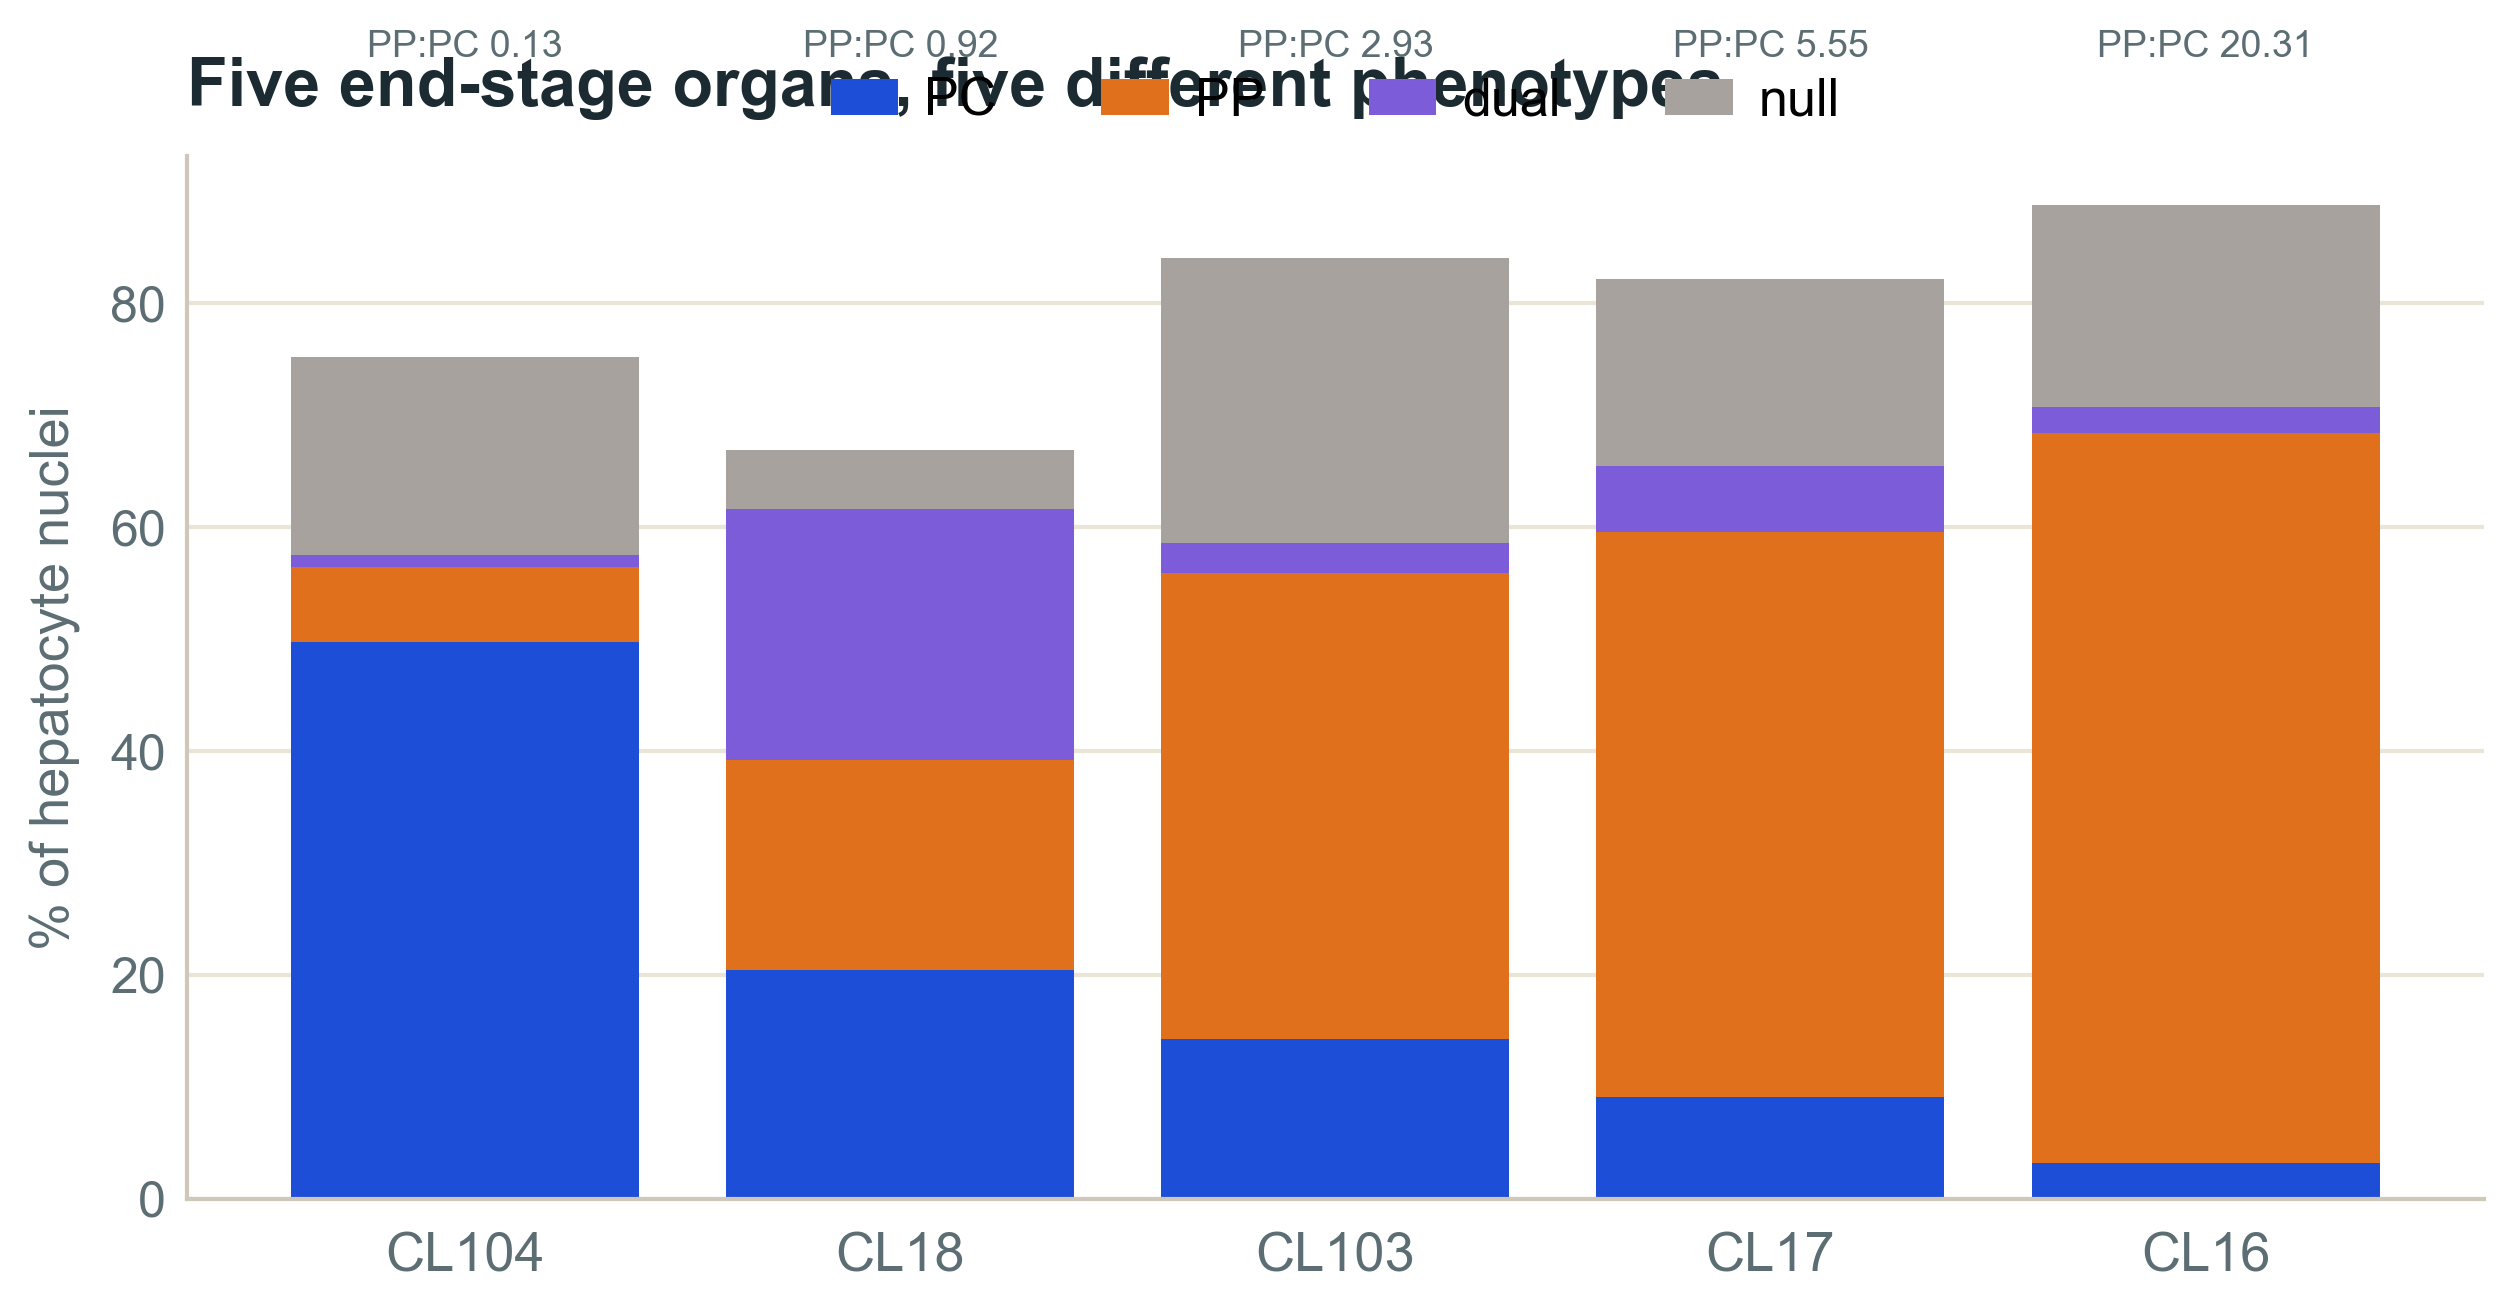
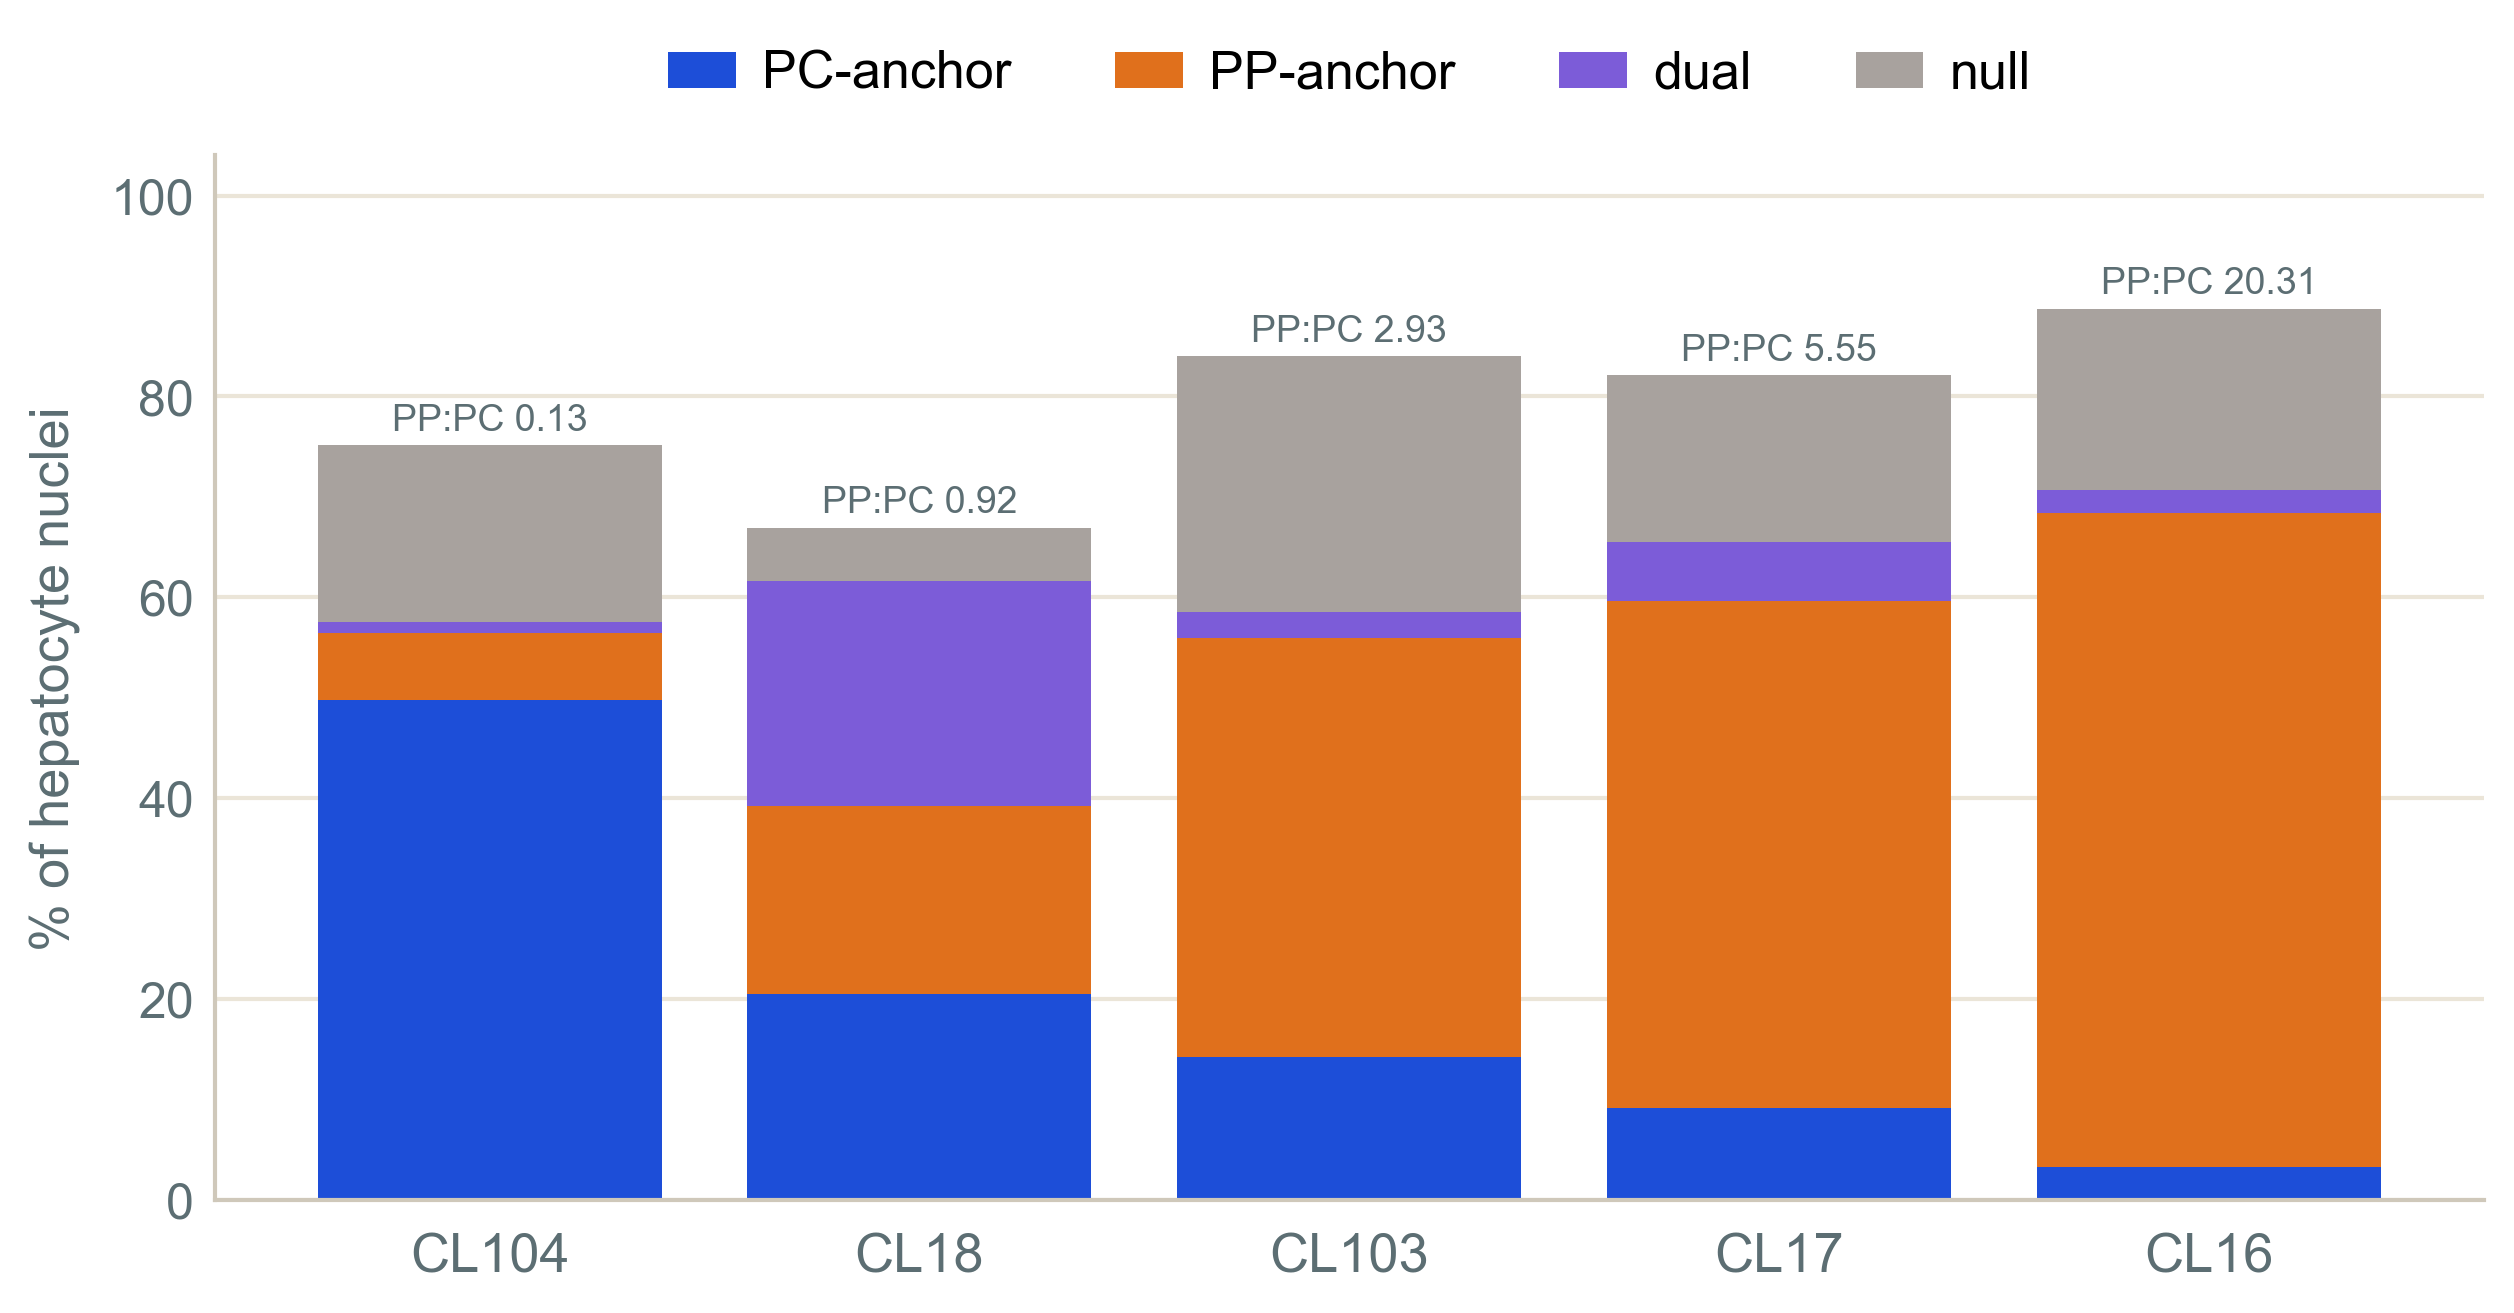
Deck: add vocabulary + gradient-axis slides, redesign conclusion, fix Fig 7
- New "THE VOCABULARY" slide (2x2 PC/PP/dual/null classes), colour-matched
  to the mechanism chips that follow
- Relabel WHAT WE TEST chips by box+direction (anchor box down vs null box up)
  so depletion vs turn-off can't be conflated; generalize the z-score caveat
- New "THE GRADIENT AXIS" slide grouping compression (shape) + dimming
  (amplitude) with vector schematics; pull dimming off the WHAT WE TEST slide
- Dimming verdict softened to the defensible "borderline; not corroborated
  genome-wide -> dropped" (chip, backup taxonomy, notes)
- Restore the missing Dimming row to the backup scenario-coverage table
- Redesign in-place conclusion to 3 scannable takeaways; move the dense
  three-column version to a backup slide
- Fix Fig 7 (fig_explant): drop redundant in-figure title, anchor PP:PC labels
  above each bar, clear the legend band (was overlapping title + annotations)
- Fix negative line-extent bug in gradient schematic that made PowerPoint
  refuse to open the file

diff --git a/presentation/build_deck.js b/presentation/build_deck.js
@@ -42,6 +42,11 @@ function chip(s,x,y,w,h,txt,fill,tcol){
   s.addShape(p.shapes.ROUNDED_RECTANGLE,{x,y,w,h,fill:{color:fill},rectRadius:0.08,shadow:sh()});
   s.addText(txt,{x,y,w,h,fontSize:14.5,bold:true,color:tcol||WHITE,align:"center",valign:"middle",margin:2});
 }
+function classbox(s,x,y,w,h,title,sub,fill,tcol){ // labelled definition card (title + plain-language line)
+  s.addShape(p.shapes.ROUNDED_RECTANGLE,{x,y,w,h,fill:{color:fill},rectRadius:0.07,shadow:sh()});
+  s.addText(title,{x:x+0.18,y:y+0.13,w:w-0.36,h:0.5,fontSize:20,bold:true,color:tcol||WHITE,fontFace:SERIF,align:"left",valign:"top",margin:0});
+  s.addText(sub,{x:x+0.18,y:y+0.68,w:w-0.36,h:h-0.8,fontSize:13.5,color:tcol||WHITE,align:"left",valign:"top",margin:0});
+}
 
 // ============================================================ SLIDE 1 — TITLE
 let s=p.addSlide(); s.background={color:DARK};
@@ -121,23 +126,97 @@ s.addText([
 foot(s);
 s.addNotes("Show the legacy approach and the claim it produced, then dismantle it. We first read the data with a z-scored relative ruler and marker correlations — which produced the headline 'hepatocytes lose zonation, pericentral turns off.' But every such metric is a relative summary pooled across all samples; it hides who moved and is bent by depth, cell number and tissue source. That motivated the pivot to raw molecule counts on the matched axis.");
 
+// ============================================================ SLIDE 3c — THE FOUR CLASSES (vocabulary)
+s=p.addSlide(); s.background={color:BG};
+head(s,"THE VOCABULARY","Every hepatocyte falls in one of four classes");
+s.addText("Before asking how zonation could break down, we fix the words. Each hepatocyte either runs the pericentral program, the periportal program, both at once, or neither — four mutually exclusive classes:",
+  {x:0.7,y:1.5,w:12.3,h:0.6,fontSize:16,color:INK,align:"left"});
+// axis headers — periportal across the top, pericentral down the left
+s.addText("PERIPORTAL  PROGRAM   (ASS1, CPS1, PCK1 …)",{x:2.95,y:2.18,w:9.15,h:0.3,fontSize:12.5,bold:true,color:PP,charSpacing:1,align:"center",margin:0});
+s.addText("not detected",{x:2.95,y:2.5,w:4.45,h:0.3,fontSize:12.5,bold:true,color:MUTE,align:"center",margin:0});
+s.addText("detected",{x:7.65,y:2.5,w:4.45,h:0.3,fontSize:12.5,bold:true,color:MUTE,align:"center",margin:0});
+s.addText("PERICENTRAL\nPROGRAM\n(GLUL, CYP …)",{x:0.4,y:2.45,w:2.4,h:0.85,fontSize:12.5,bold:true,color:PC,align:"center",margin:0});
+s.addText("detected",{x:0.4,y:3.5,w:2.4,h:0.3,fontSize:12.5,bold:true,color:MUTE,align:"center",margin:0});
+s.addText("not detected",{x:0.4,y:5.2,w:2.4,h:0.3,fontSize:12.5,bold:true,color:MUTE,align:"center",margin:0});
+// 2x2 grid of definition cards — colours match the mechanism chips on the next slide
+classbox(s,2.95,2.9,4.45,1.55,"PC-anchor","Pericentral identity — pericentral genes detected, periportal genes silent.",PC);
+classbox(s,7.65,2.9,4.45,1.55,"Dual","Co-expression — both programs detectable in the same nucleus.",DUAL);
+classbox(s,2.95,4.6,4.45,1.55,"Null","Double-negative — neither program detectable.",NULL,INK);
+classbox(s,7.65,4.6,4.45,1.55,"PP-anchor","Periportal identity — periportal genes detected, pericentral genes silent.",PP);
+s.addText([{text:"These four classes are the vocabulary. ",options:{bold:true}},
+  {text:"“Losing zonation” means cells ",options:{}},{text:"redistribute",options:{italic:true}},
+  {text:" across them — the next slide is the four ways that can happen, in these same colours.",options:{}}],
+  {x:0.7,y:6.35,w:12.3,h:0.5,fontSize:13.5,italic:true,color:MUTE,align:"left"});
+foot(s);
+s.addNotes("Definitions before mechanisms. Every hepatocyte is sorted into exactly one of four classes by which zonation program it runs: PC-anchor (pericentral only), PP-anchor (periportal only), Dual (both — the co-expression state), or Null (neither — double-negative). The 2x2 is pericentral detected/not against periportal detected/not. The card colours are carried onto the next slide, where each failure mode is a change in how cells distribute across these four boxes. 'Detected' here is operationalised on the later method slide as the >=2-UMI, depth-normalized rule.");
+
 // ============================================================ SLIDE 4 — FAILURE MODES
 s=p.addSlide(); s.background={color:BG};
 head(s,"WHAT WE TEST","Zonation loss is not one mechanism");
 s.addText("If the zonation expression signal breaks down, it can do so in distinct ways — each has its own count signature, which we test separately:",
   {x:0.7,y:1.6,w:12.0,h:0.7,fontSize:17,color:INK,align:"left"});
-chip(s,1.0,2.6,2.6,1.2,"Depletion\n(a pole's cells lost)",PC);
-chip(s,3.85,2.6,2.6,1.2,"Co-expression\n(both poles on)",DUAL);
-chip(s,6.7,2.6,2.6,1.2,"Turn-off\n(neither pole on)",NULL,INK);
+chip(s,1.0,2.6,2.6,1.2,"Depletion\n(an anchor box ↓)",PC);
+chip(s,3.85,2.6,2.6,1.2,"Co-expression\n(the dual box ↑)",DUAL);
+chip(s,6.7,2.6,2.6,1.2,"Turn-off\n(the null box ↑)",NULL,INK);
 chip(s,9.55,2.6,2.85,1.2,"Composition shift\n(PP : PC ratio moves)",PP);
-s.addText([{text:"We suspected pericentral depletion specifically — but ",options:{}},
-  {text:"“depletion” is general",options:{bold:true}},
-  {text:" (either pole, or both). We test each mechanism, not just the one we expected.",options:{}}],
-  {x:1.0,y:4.2,w:11.0,h:0.6,fontSize:15,color:"334155",align:"left"});
-s.addText("A single anti-correlation or UMAP impression conflates these — which is exactly the trap we avoid with absolute counts.",
-  {x:1.0,y:5.1,w:11.0,h:0.6,fontSize:15,italic:true,color:MUTE,align:"left"});
+s.addText([{text:"We expected pericentral depletion — but an ",options:{}},
+  {text:"emptying anchor box",options:{bold:true,color:PC}},
+  {text:" (depletion) and a ",options:{}},
+  {text:"filling null box",options:{bold:true,color:"6B7280"}},
+  {text:" (turn-off) are different boxes, opposite directions — neither implies the other. We track all four, not just the pericentral depletion we expected.",options:{}}],
+  {x:1.0,y:4.25,w:11.9,h:0.7,fontSize:15,color:"334155",align:"left",valign:"top"});
+s.addText("Any relative summary — a z-score, a marker correlation, a UMAP axis — is scale-free by construction: it divides out the absolute level, so it reads the gradient’s shape, not how many cells sit where. The four box-counts above collapse into one number; only counting molecules tells them apart.",
+  {x:1.0,y:5.35,w:11.9,h:1.3,fontSize:15,italic:true,color:MUTE,align:"left",valign:"top"});
 foot(s,4);
-s.addNotes("De-zonation is not one thing. Pericentral OR periportal cells could deplete; cells could co-express both poles; cells could turn both off; or the periportal-to-pericentral ratio could shift. We deliberately say 'depletion' generally — we suspected pericentral depletion and will show it is absent, but depletion is the general confounder and we test each mechanism. A single correlation score conflates them; counts separate them.");
+s.addNotes("De-zonation is not one event but several, each a different movement among the four boxes from the previous slide. Depletion = an anchor (pole-identity) box shrinks — pericentral OR periportal. Turn-off = the null, double-negative box grows. These are dissociable, which is the question that keeps coming up: a pole can convert to the opposite pole (depletion with the null box untouched), and cells can go double-negative without any single pole shrinking (turn-off with no depletion). Co-expression fills the dual box; composition shift tilts the PP:PC ratio. A single correlation or z-score collapses all four into one number; absolute box counts keep them separate. All four are flat across biopsy F1-F4. Two further routes act on the gradient itself rather than the boxes — gradient compression and dimming — and get their own slide next.");
+
+// ============================================================ SLIDE 4b — THE GRADIENT AXIS (compression + dimming)
+// mini line-schematic of a zonation gradient (yf: 0=top/high expression, 1=bottom/low)
+function gplot(s,px,py,pw,ph,lines){
+  s.addShape(p.shapes.LINE,{x:px,y:py,w:0,h:ph,line:{color:"C2CBCB",width:1}});
+  s.addShape(p.shapes.LINE,{x:px,y:py+ph,w:pw,h:0,line:{color:"C2CBCB",width:1}});
+  for(const ln of lines){ const x1=px+ln.x1*pw,y1=py+ln.y1*ph,x2=px+ln.x2*pw,y2=py+ln.y2*ph;
+    // OOXML extents must be non-negative — use abs() and flipV for rising lines
+    const x=Math.min(x1,x2),y=Math.min(y1,y2),w=Math.abs(x2-x1),h=Math.abs(y2-y1),flipV=((x2-x1)*(y2-y1)<0);
+    s.addShape(p.shapes.LINE,{x,y,w,h,flipV:flipV,line:{color:ln.c,width:ln.w||3,dashType:ln.d}}); }
+}
+s=p.addSlide(); s.background={color:BG};
+head(s,"THE GRADIENT AXIS","Beyond the boxes — zonation is a gradient");
+s.addText("The four classes are discrete bins. Zonation is really a continuous gradient, which can weaken two further ways the box-counts can’t see — one of shape, one of level:",
+  {x:0.7,y:1.55,w:12.3,h:0.6,fontSize:16,color:INK,align:"left"});
+// --- card A: COMPRESSION (shape) ---
+s.addShape(p.shapes.ROUNDED_RECTANGLE,{x:0.6,y:2.25,w:6.0,h:3.55,fill:{color:"FFFFFF"},line:{color:"E2DCCF",width:1},rectRadius:0.06,shadow:sh()});
+s.addText([{text:"Compression  ",options:{bold:true,fontSize:19,color:TEAL,fontFace:SERIF}},{text:"the gradient flattens",options:{italic:true,fontSize:14,color:MUTE}}],
+  {x:0.9,y:2.42,w:5.4,h:0.4,align:"left",margin:0});
+gplot(s,0.95,3.0,1.9,1.45,[
+  {x1:0,y1:0.95,x2:1,y2:0.08,c:"B7C1C1",w:2,d:"dash"},
+  {x1:0,y1:0.58,x2:1,y2:0.44,c:TEAL,w:3.5}]);
+s.addText([{text:"— before    ",options:{color:"9AA6A6"}},{text:"— after",options:{color:TEAL,bold:true}}],
+  {x:0.95,y:4.5,w:1.95,h:0.25,fontSize:10.5,align:"center",margin:0});
+s.addText("Per-cell PC↔PP balance drifts toward the middle — the contrast between poles shrinks.",
+  {x:3.05,y:3.0,w:3.35,h:1.4,fontSize:13.5,color:INK,align:"left",valign:"top"});
+s.addShape(p.shapes.ROUNDED_RECTANGLE,{x:0.9,y:4.95,w:5.4,h:0.66,fill:{color:"E7F0EE"},rectRadius:0.05});
+s.addText([{text:"Mild, non-monotone (peak F3); both poles stay populated → ",options:{color:"14532D"}},{text:"gradient present.",options:{bold:true,color:"14532D"}}],
+  {x:1.05,y:4.97,w:5.15,h:0.62,fontSize:12.5,align:"left",valign:"middle"});
+// --- card B: DIMMING (amplitude) ---
+s.addShape(p.shapes.ROUNDED_RECTANGLE,{x:6.85,y:2.25,w:6.0,h:3.55,fill:{color:"FFFFFF"},line:{color:"E2DCCF",width:1},rectRadius:0.06,shadow:sh()});
+s.addText([{text:"Dimming  ",options:{bold:true,fontSize:19,color:AMBER,fontFace:SERIF}},{text:"the gradient drops",options:{italic:true,fontSize:14,color:MUTE}}],
+  {x:7.15,y:2.42,w:5.4,h:0.4,align:"left",margin:0});
+gplot(s,7.2,3.0,1.9,1.45,[
+  {x1:0,y1:0.82,x2:1,y2:0.08,c:"B7C1C1",w:2,d:"dash"},
+  {x1:0,y1:1.0,x2:1,y2:0.34,c:AMBER,w:3.5}]);
+s.addText([{text:"— before    ",options:{color:"9AA6A6"}},{text:"— after",options:{color:AMBER,bold:true}}],
+  {x:7.2,y:4.5,w:1.95,h:0.25,fontSize:10.5,align:"center",margin:0});
+s.addText("Cells keep their balance, but the program’s overall level falls (same shape, lower).",
+  {x:9.3,y:3.0,w:3.35,h:1.4,fontSize:13.5,color:INK,align:"left",valign:"top"});
+s.addShape(p.shapes.ROUNDED_RECTANGLE,{x:7.15,y:4.95,w:5.4,h:0.66,fill:{color:"FBEEE2"},rectRadius:0.05});
+s.addText([{text:"Nominal ~30% dip (12.7→8.9 UMI/nuc) — borderline; not corroborated genome-wide → ",options:{color:"7C2D12"}},{text:"dropped.",options:{bold:true,color:"7C2D12"}}],
+  {x:7.3,y:4.97,w:5.15,h:0.62,fontSize:12,align:"left",valign:"middle"});
+s.addText([{text:"On matched biopsies the gradient holds its shape, and the one amplitude hint doesn’t hold up — consistent with the flat box-counts. ",options:{}},
+  {text:"Only the explant collapses to a single pole.",options:{italic:true,color:MUTE}}],
+  {x:0.7,y:6.05,w:12.3,h:0.6,fontSize:14.5,color:"334155",align:"left",valign:"top"});
+foot(s);
+s.addNotes("The continuous-gradient axis, which the discrete box-counts cannot capture. Two routes here, and they are distinct facets: compression is a loss of SHAPE — the per-cell PC/(PC+PP) balance drifts toward the middle, contrast between poles shrinks (still a relative measure); dimming is a loss of LEVEL — the program's absolute magnitude falls while the balance is unchanged. Compression: down-thinned, donor-balanced per-cell balance histograms (results/figures/h2/gradient_polarization_dist.png) show a mild, non-monotone middle drift peaking at F3 with both poles staying populated — gradient present, not collapsed; only the explant collapses to the periportal pole. Dimming: a nominal ~30% within-PC detox dip (12.7 to 8.9 down-thinned UMIs/nucleus, F1 to F4). It is borderline to begin with — only about 1.4x the ~26% minimum detectable effect at n=8 vs 4 — and it is NOT corroborated by the genome-wide donor-level pseudobulk DGE of the same genes (CYP2E1 FDR .98, CYP1A2 .91, ADH4 .97, GLUL ~.80, all non-significant). Since those detox genes are expressed mostly in PC cells, a real dimming should have left a donor-level footprint; none appears, so we drop it rather than report it. We do not claim the DGE formally disproves dimming. Net: the gradient is preserved in shape and, where testable, in amplitude — matching the flat anchor counts.");
 
 // ============================================================ SLIDE 5 — THE CONFOUND
 s=p.addSlide(); s.background={color:BG};
@@ -288,14 +367,20 @@ const cols=[
   {h:"Limits",c:"FCA5A5",items:["snRNA-seq ≠ lobule geometry / spatial architecture.","Imaging / protein / organoid evidence not re-analyzed.","F4 has only 4 biopsy donors.","Gene-level DGE can miss weak coordinated pathways."]},
   {h:"Next",c:"9CC6CC",items:["CAMERA / ROAST gene-set tests.","Leave-one-F4-donor-out DGE.","Quantitative contamination model.","Spatial / independent biopsy validation."]}
 ];
-let cx=0.85; for(const col of cols){ const cw=3.85;
-  s.addShape(p.shapes.ROUNDED_RECTANGLE,{x:cx,y:1.75,w:cw,h:4.3,fill:{color:"1E3A3D"},rectRadius:0.08,shadow:sh()});
-  s.addText(col.h,{x:cx,y:1.9,w:cw,h:0.5,fontSize:20,bold:true,color:col.c,fontFace:SERIF,align:"center"});
-  s.addText(col.items.map(t=>({text:t,options:{bullet:true,color:"E2E8F0",breakLine:true,paraSpaceAfter:9}})),
-    {x:cx+0.25,y:2.5,w:cw-0.45,h:3.4,fontSize:14.5,align:"left",valign:"top"});
-  cx+=cw+0.25; }
-s.addText("The snRNA-seq transcriptomic evidence for progressive de-zonation does not survive matched-source re-analysis.",
-  {x:0.7,y:6.4,w:11.9,h:0.65,fontSize:17,bold:true,italic:true,color:WHITE,align:"center"});
+const takes=[
+  {n:"01",t:"Matched biopsies stay zonated",s:"Across F1–F4 every count route — depletion, co-expression, turn-off, composition — is flat, and the gradient holds its shape."},
+  {n:"02",t:"The trajectory was acquisition, not disease",s:"Healthy and end-stage are deceased-donor cubes and explants; the apparent “progression” tracks how the tissue was taken."},
+  {n:"03",t:"The biliary signal looks compositional",s:"The lone genome-wide change is a biliary / ductular burden, most consistent with composition / ambient RNA."}];
+let ty=1.92; for(const k of takes){
+  s.addText(k.n,{x:0.92,y:ty,w:1.15,h:0.7,fontSize:34,bold:true,color:AMBER,fontFace:SERIF,align:"left",valign:"top",margin:0});
+  s.addText(k.t,{x:2.2,y:ty+0.02,w:10.5,h:0.45,fontSize:21,bold:true,color:WHITE,fontFace:SERIF,align:"left",valign:"top",margin:0});
+  s.addText(k.s,{x:2.22,y:ty+0.5,w:10.4,h:0.5,fontSize:14.5,color:"C9D6D3",align:"left",valign:"top",margin:0});
+  ty+=1.0; }
+s.addShape(p.shapes.LINE,{x:2.22,y:4.98,w:10.3,h:0,line:{color:"2E4A4D",width:1}});
+s.addText("The snRNA-seq evidence for progressive de-zonation does not survive matched-source re-analysis — what looked like a disease trajectory was, in large part, an acquisition trajectory.",
+  {x:0.92,y:5.18,w:11.9,h:0.9,fontSize:17,bold:true,italic:true,color:WHITE,align:"left",valign:"top"});
+s.addText("Scope — snRNA-seq transcriptomes only: imaging, protein and organoid evidence are untouched, and a weak coordinated gene-set program is not excluded.",
+  {x:0.92,y:6.5,w:11.9,h:0.5,fontSize:13,color:"8FA3A0",align:"left",valign:"top"});
 foot(s,11);
 s.addNotes("Close on the methodological lesson: in single-cell disease atlases, acquisition matching can dominate apparent disease trajectories. Bottom line, narrow and honest: the snRNA-seq transcriptomic evidence for progressive de-zonation does not survive matched-source re-analysis; imaging/protein/organoid evidence is untouched; the biliary burden is most consistent with composition/ambient RNA, a rare intrinsic state not excluded.");
 
@@ -362,22 +447,38 @@ bbul(b,["Gene-level FDR can miss a coordinated WEAK program (many genes, small s
   "mitochondrial, ER stress, interferon, hypoxia, EMT/fetal/progenitor, cholangiocyte/ductular.",
   "Closes the caveat behind “no other large hepatocyte program.”"]);
 
-b=back("SCENARIO COVERAGE","Every de-zonation route, tested by count signature");
+b=back("SCENARIO COVERAGE","Every de-zonation route, mapped to its signature");
 const TAX=[
-  [{text:"Mechanism",options:{bold:true}},{text:"Count signature",options:{bold:true}},{text:"Biopsy F0→F4 (donor-median)",options:{bold:true}},{text:"Verdict",options:{bold:true}}],
+  [{text:"Mechanism",options:{bold:true}},{text:"Signature",options:{bold:true}},{text:"Biopsy F0→F4 (donor-median)",options:{bold:true}},{text:"Verdict",options:{bold:true}}],
   ["Pericentral depletion","PC-anchor fraction ↓","36 / 19 / 23 / 22 / 21 %","flat → no depletion"],
   ["Periportal depletion","PP-anchor fraction ↓","20 / 21 / 22 / 24 / 24 %","flat → no depletion"],
+  ["Dimming","within-PC level ↓ (magnitude)","12.7 → 8.9 detox UMI/nuc (F1→F4)","borderline; not corroborated genome-wide → dropped"],
   ["Co-expression","dual (≥2 UMI) fraction ↑","~0.0 / 0.2 / 0.4 / 0.2 / 0.2 %","ambient soup → no"],
   ["Gradient compression","per-cell balance → middle","mild, non-monotone (peak F3)","gradient present"],
   ["Turn-off","null (double-neg) fraction ↑","34 / 44 / 36 / 39 / 39 %","flat → no turn-off"],
   ["Composition shift","PP : PC anchor ratio","0.62 / 1.16 / 1.01 / 1.10 / 1.18","~flat → no shift"],
   ["Induction","program burden ↑","flat in biopsy; rises only end-stage","explant-only"],
 ];
-b.addTable(TAX,{x:0.7,y:1.7,w:12.0,colW:[2.6,3.0,4.0,2.4],fontSize:13.5,color:INK,
+b.addTable(TAX,{x:0.7,y:1.65,w:12.0,colW:[2.5,2.95,3.95,2.6],fontSize:12.5,color:INK,
   border:{pt:0.5,color:"C9BFAE"}, fill:{color:"FFFFFF"},
-  rowH:0.52, valign:"middle", align:"left",
+  rowH:0.4, valign:"middle", align:"left",
   margin:[3,5,3,5]});
-b.addText("Each row is a distinct way zonation could fail, mapped to an absolute-count signature on depth-normalized counts; only the null (all stable) survives across biopsy F1–F4.",
-  {x:0.7,y:6.4,w:12.0,h:0.5,fontSize:13,italic:true,color:MUTE,align:"left"});
+b.addText("Each row is a distinct way zonation could fail, mapped to its signature on depth-normalized counts. Seven are count-based (cells crossing boxes); dimming is the one magnitude axis the counts can’t see. Only the null (all stable) survives biopsy F1–F4 — the lone positive hint, dimming, did not hold up genome-wide.",
+  {x:0.7,y:6.45,w:12.0,h:0.7,fontSize:12.5,italic:true,color:MUTE,align:"left"});
+
+// BACKUP — the detailed three-way partition (moved off the in-place conclusion)
+{ const bc=p.addSlide(); bc.background={color:DARK};
+  bc.addShape(p.shapes.RECTANGLE,{x:0,y:0,w:0.28,h:7.5,fill:{color:TEAL}});
+  bc.addShape(p.shapes.RECTANGLE,{x:0.28,y:0,w:0.12,h:7.5,fill:{color:AMBER}});
+  bc.addShape(p.shapes.RECTANGLE,{x:0.85,y:0.5,w:0.16,h:0.26,fill:{color:AMBER}});
+  bc.addText("BACKUP  ·  FULL CONCLUSIONS",{x:1.08,y:0.46,w:11.5,h:0.4,fontSize:14,bold:true,color:AMBER,charSpacing:3,align:"left"});
+  bc.addText("Conclusions · limits · next steps",{x:0.85,y:0.85,w:11.6,h:0.8,fontSize:28,bold:true,color:WHITE,fontFace:SERIF,align:"left",valign:"middle"});
+  let bx=0.85; for(const col of cols){ const cw=3.85;
+    bc.addShape(p.shapes.ROUNDED_RECTANGLE,{x:bx,y:1.8,w:cw,h:4.55,fill:{color:"1E3A3D"},rectRadius:0.08,shadow:sh()});
+    bc.addText(col.h,{x:bx,y:1.95,w:cw,h:0.5,fontSize:20,bold:true,color:col.c,fontFace:SERIF,align:"center"});
+    bc.addText(col.items.map(t=>({text:t,options:{bullet:true,color:"E2E8F0",breakLine:true,paraSpaceAfter:9}})),
+      {x:bx+0.25,y:2.55,w:cw-0.45,h:3.6,fontSize:14.5,align:"left",valign:"top"});
+    bx+=cw+0.25; }
+}
 
 p.writeFile({fileName:__dirname+"/MASLD_zonation.pptx"}).then(f=>console.log("WROTE",f));

diff --git a/presentation/make_figures.py b/presentation/make_figures.py
@@ -263,11 +263,14 @@ fig.tight_layout(); fig.savefig(f"{OUT}/fig_lobe.png", bbox_inches="tight"); plt
 ex=lb[lb.source=="explant"].copy().set_index("donor")
 order_e=["CL104","CL18","CL103","CL17","CL16"]; ex=ex.loc[[d for d in order_e if d in ex.index]]
 fig,ax=plt.subplots(figsize=(8.6,4.6)); bottom=np.zeros(len(ex))
-for cls,color,nm in [("PC_f",PC,"PC"),("PP_f",PP,"PP"),("dual2_f",DUAL,"dual"),("null_f",NULL,"null")]:
+for cls,color,nm in [("PC_f",PC,"PC-anchor"),("PP_f",PP,"PP-anchor"),("dual2_f",DUAL,"dual"),("null_f",NULL,"null")]:
     ax.bar(ex.index, ex[cls]*100, bottom=bottom*100, color=color, label=nm); bottom=bottom+ex[cls].values
-ax.set_ylabel("% of hepatocyte nuclei"); ax.legend(frameon=False, ncol=4, loc="upper center", bbox_to_anchor=(0.5,1.12))
-for i,(dn,row) in enumerate(ex.iterrows()): ax.text(i,102,f"PP:PC {row['pppc']:.2f}",ha="center",fontsize=9,color=MUTE)
-ax.set_title("Five end-stage organs, five different phenotypes", fontweight="bold", loc="left")
+ax.set_ylabel("% of hepatocyte nuclei"); ax.set_ylim(0,104)
+# PP:PC ratio just above each bar's own total (not a fixed y — that collided with the title/legend)
+tot=(ex["PC_f"]+ex["PP_f"]+ex["dual2_f"]+ex["null_f"]).values*100
+for i,(dn,row) in enumerate(ex.iterrows()): ax.text(i, tot[i]+1.5, f"PP:PC {row['pppc']:.2f}", ha="center", fontsize=9, color=MUTE)
+# title comes from the slide headline + figure caption; legend gets the cleared top strip
+ax.legend(frameon=False, ncol=4, loc="lower center", bbox_to_anchor=(0.5,1.01))
 fig.tight_layout(); fig.savefig(f"{OUT}/fig_explant.png", bbox_inches="tight"); plt.close(fig)
 
 print("wrote figures to", OUT)